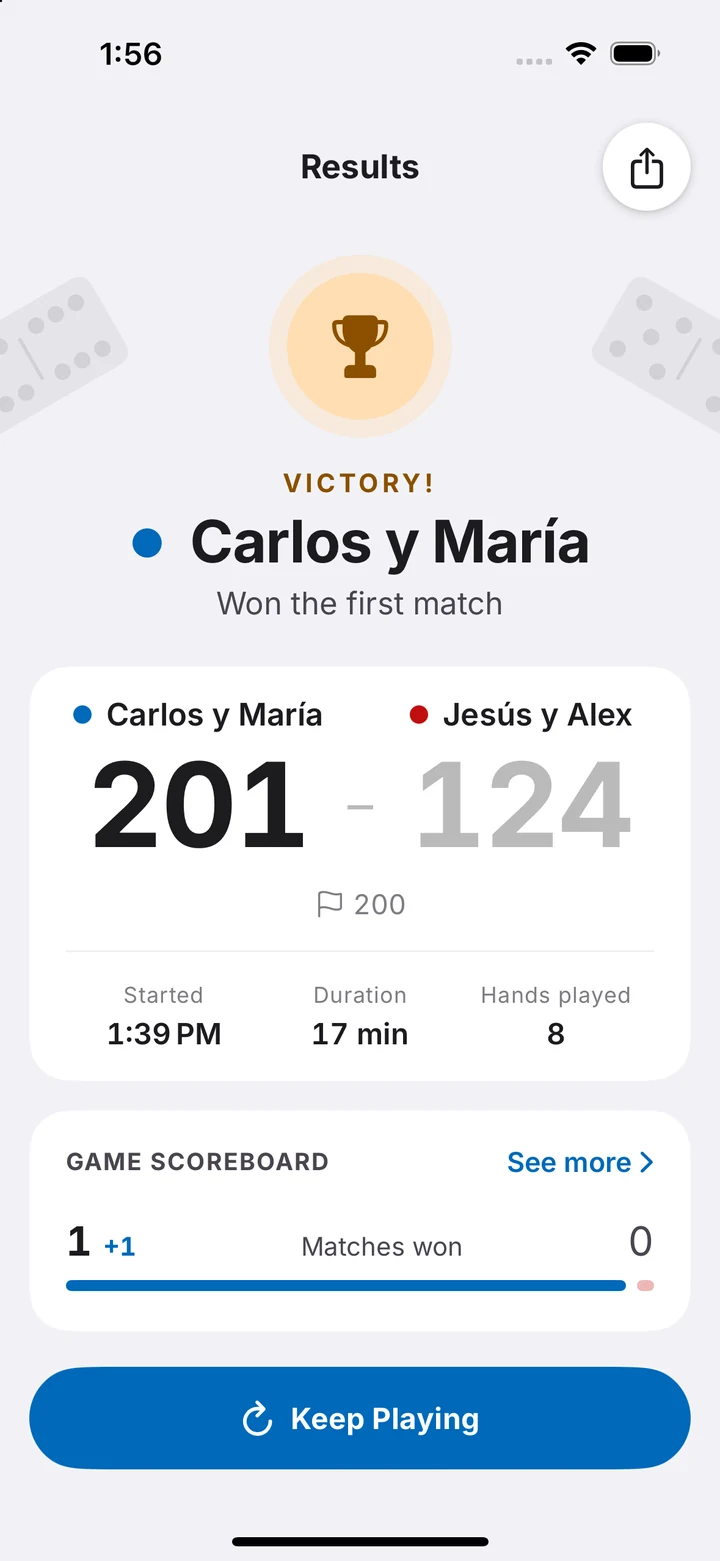
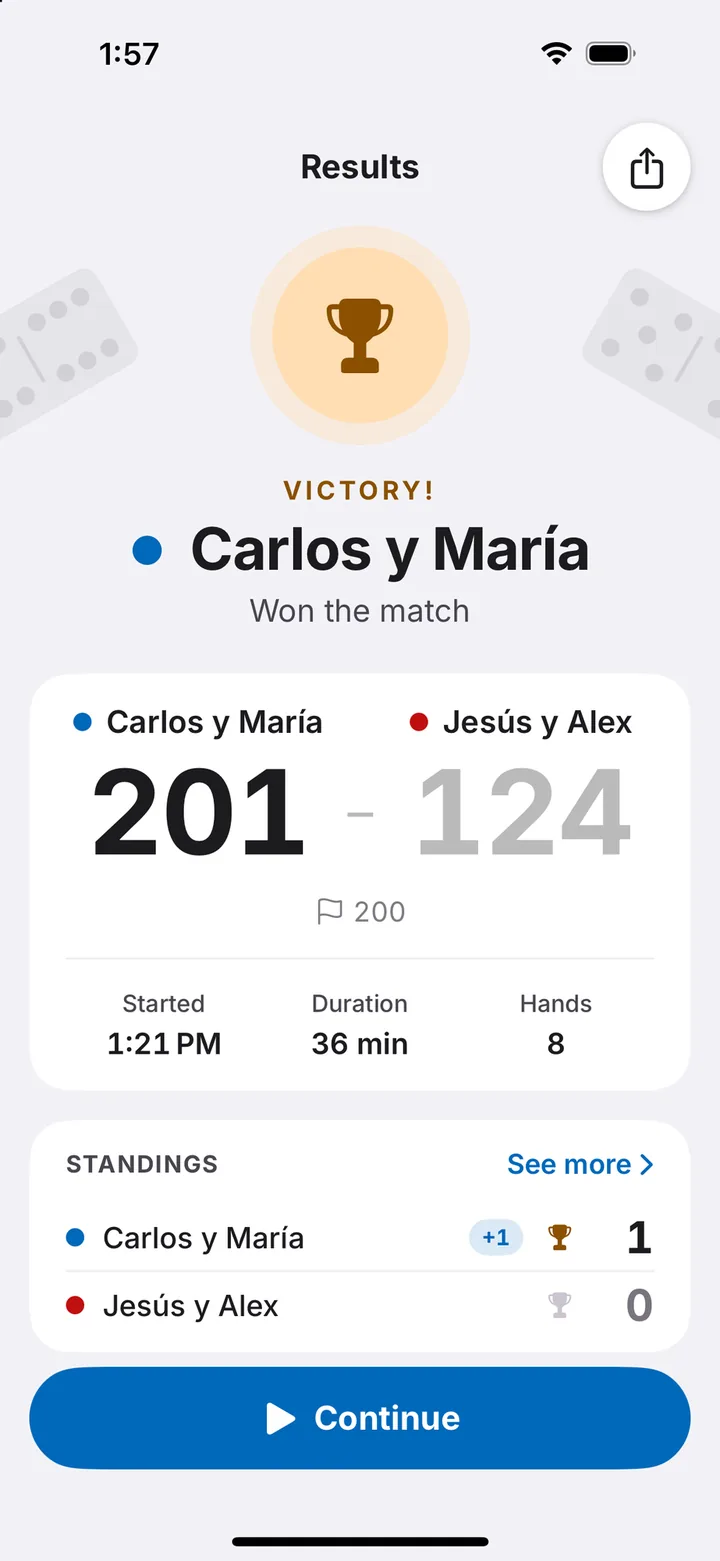
Refresh screenshots and standings copy
Update the history, rules, and results screenshots in both languages, and clarify feature copy around standings and visual styles.

diff --git a/index.html b/index.html
@@ -315,7 +315,7 @@
         <article class="row">
           <div>
             <div class="icon i-blue"><svg viewBox="0 0 24 24" fill="none" stroke="currentColor" stroke-width="2" stroke-linecap="round" stroke-linejoin="round" aria-hidden="true"><path d="M3.8 12a8.2 8.2 0 1 0 2.4-5.8"></path><path d="M3.5 4v4h4"></path><path d="M12 7.5V12l3 2"></path></svg></div>
-            <h3 data-i18n="r6.t">Marcador e historial</h3>
+            <h3 data-i18n="r6.t">Posiciones e historial</h3>
             <p data-i18n="r6.d">Partidas ganadas, perdidas y puntos totales de cada equipo, y el historial de cada partida con su resultado y lo que duró.</p>
           </div>
           <div class="row-shot t-blue"><div class="phone"><img data-img="historial" data-i18n-alt="r6.alt" src="img/es/historial.webp" alt="Pantalla de estadísticas e historial" width="720" height="1561" loading="lazy"></div></div>
@@ -325,9 +325,9 @@
           <div>
             <div class="icon i-green"><svg viewBox="0 0 24 24" fill="none" stroke="currentColor" stroke-width="2" stroke-linecap="round" stroke-linejoin="round" aria-hidden="true"><path d="M12 22a10 10 0 1 1 10-10c0 2.8-2.2 4-4.5 4H15a2 2 0 0 0-1.5 3.3A1.6 1.6 0 0 1 12 22z"></path><circle cx="7.5" cy="10.5" r="1"></circle><circle cx="12" cy="7" r="1"></circle><circle cx="16.5" cy="10.5" r="1"></circle></svg></div>
             <h3 data-i18n="r8.t">Cambia la apariencia</h3>
-            <p data-i18n="r8.d">Elige el estilo del marcador: Moderno sutil, Moderno vibrante o Clásico. También puedes cambiar el tema y el tamaño del texto.</p>
+            <p data-i18n="r8.d">Elige el estilo visual: Moderno sutil, Moderno vibrante o Clásico. También puedes cambiar el tema y el tamaño del texto.</p>
           </div>
-          <div class="row-shot t-green"><div class="phone"><img data-img="apariencia" data-i18n-alt="r8.alt" src="img/es/apariencia.webp" alt="Pantalla Cambiar apariencia con los estilos del marcador" width="720" height="1561" loading="lazy"></div></div>
+          <div class="row-shot t-green"><div class="phone"><img data-img="apariencia" data-i18n-alt="r8.alt" src="img/es/apariencia.webp" alt="Pantalla Cambiar apariencia con los estilos visuales" width="720" height="1561" loading="lazy"></div></div>
         </article>
 
         <article class="row">
@@ -465,12 +465,12 @@
       "r5.t": "Resultados de cada partida",
       "r5.d": "Al terminar una partida, mira quién ganó, a qué hora empezó, cuánto duró y cuántas manos se jugaron. Compártelo con un toque.",
       "r5.alt": "Pantalla de resultados de una partida",
-      "r6.t": "Marcador e historial",
+      "r6.t": "Posiciones e historial",
       "r6.d": "Partidas ganadas, perdidas y puntos totales de cada equipo, y el historial de cada partida con su resultado y lo que duró.",
       "r6.alt": "Pantalla de estadísticas e historial",
       "r8.t": "Cambia la apariencia",
-      "r8.d": "Elige el estilo del marcador: Moderno sutil, Moderno vibrante o Clásico. También puedes cambiar el tema y el tamaño del texto.",
-      "r8.alt": "Pantalla Cambiar apariencia con los estilos del marcador",
+      "r8.d": "Elige el estilo visual: Moderno sutil, Moderno vibrante o Clásico. También puedes cambiar el tema y el tamaño del texto.",
+      "r8.alt": "Pantalla Cambiar apariencia con los estilos visuales",
       "r7.t": "Comparte el juego",
       "r7.d": "¿Te tienes que ir? Pásale el juego a otra persona con un código QR para que siga anotando en su teléfono. El juego también se queda en el tuyo.",
       "r7.alt": "Código QR para pasar el juego a otro teléfono",
@@ -527,7 +527,7 @@
       "r5.t": "Results for every match",
       "r5.d": "When a match ends, see who won, when it started, how long it took and how many hands were played. Share it with one tap.",
       "r5.alt": "Match results screen",
-      "r6.t": "Scoreboard and history",
+      "r6.t": "Standings and history",
       "r6.d": "Matches won, matches lost and total points for every team, plus every match with its result and how long it took.",
       "r6.alt": "Stats and history screen",
       "r8.t": "Change the look",
